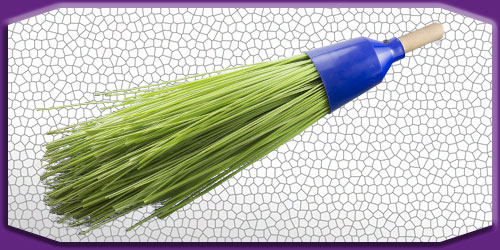
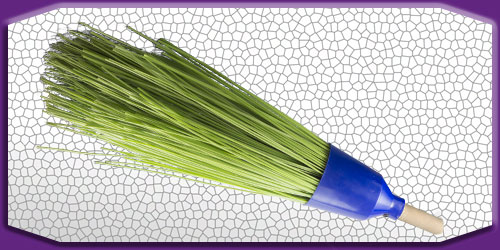
CR: Modified photoes for brushes and for main page. Modifed top menu laout

diff --git a/css/site.less b/css/site.less
@@ -102,18 +102,47 @@ header {
 			margin-right: 15px;
 			margin-bottom: 5px;
 
-			@media (min-width: @screen-sm-min) {
-				display: inline-block;
-			}
-
 			> a {
-				color: @text-contacts-decoration-color;
-				text-transform: uppercase;
+				display: block;
 				text-decoration: none;
+				font-size: 1.1em;
+
+				span {
+					color: @text-contacts-decoration-color;
+					display: inline-block;
+				}
+
+				.note {
+					margin-top: 5px;
+					color: desaturate(darken(@text-contacts-decoration-color, 5%), 85%);
+					font-size: 0.75em;
+				}
 
 				&:hover {
-					color: @product-decoration-text-color-2;
+					text-decoration: none;
+
+					span {
+						color: @product-decoration-text-color-2;
+					}
+
+					.note {
+						color: desaturate(darken(@product-decoration-text-color-2, 5%), 85%);
+					}
 				}
+
+				@media (min-width: @screen-sm-min) {
+					span {
+						display: block;
+					}
+
+					span.glyphicon {
+						margin-bottom: 10px;
+					}
+				}
+			}
+
+			@media (min-width: @screen-sm-min) {
+				display: inline-block;
 			}
 		}
 	}
@@ -411,7 +440,6 @@ main {
 	// This is added to avoid chrome text rendering bug;
 	z-index: 1;
 	// ------------------------------------------------
-	
 	margin-bottom: 5px;
 	border: 1px solid @product-decoration-color-3;
 

diff --git a/index.html b/index.html
@@ -45,10 +45,30 @@
 			<nav class="row">
 				<div class="col-xs-12 col-sm-12 col-md-12 col-lg-12">
 					<ul class="menu text-center">
-						<li><a href="/"><span class="glyphicon glyphicon-home"></span></a></li>
-						<li><a href="metla.html">МЕТЛА PRIMA</a></li>
-						<li><a href="shchetka-gerda.html">ЩЕТКА GERDA</a></li>
-						<li><a href="shchetka-gardena.html">ЩЕТКА GARDENA LUX</a></li>
+						<li>
+							<a href="/">
+								<span class="glyphicon glyphicon-home"></span>
+								<span class="note">ДОМАШНЯЯ</span>
+							</a>
+						</li>
+						<li>
+							<a href="metla.html">
+								<span>PRIMA</span>
+								<span class="note">МЕТЛА</span>
+							</a>
+						</li>
+						<li>
+							<a href="shchetka-gerda.html">
+								<span>GERDA</span>
+								<span class="note">ЩЕТКА</span>
+							</a>
+						</li>
+						<li>
+							<a href="shchetka-gardena.html">
+								<span>GARDENA LUX</span>
+								<span class="note">ПЛОСКАЯ МЕТЛА</span>
+							</a>
+						</li>
 					</ul>
 				</div>
 			</nav>

diff --git a/metla.html b/metla.html
@@ -45,10 +45,30 @@
 			<nav class="row">
 				<div class="col-xs-12 col-sm-12 col-md-12 col-lg-12">
 					<ul class="menu text-center">
-						<li><a href="/"><span class="glyphicon glyphicon-home"></span></a></li>
-						<li><a href="metla.html">МЕТЛА PRIMA</a></li>
-						<li><a href="shchetka-gerda.html">ЩЕТКА GERDA</a></li>
-						<li><a href="shchetka-gardena.html">ЩЕТКА GARDENA LUX</a></li>
+						<li>
+							<a href="/">
+								<span class="glyphicon glyphicon-home"></span>
+								<span class="note">ДОМАШНЯЯ</span>
+							</a>
+						</li>
+						<li>
+							<a href="metla.html">
+								<span>PRIMA</span>
+								<span class="note">МЕТЛА</span>
+							</a>
+						</li>
+						<li>
+							<a href="shchetka-gerda.html">
+								<span>GERDA</span>
+								<span class="note">ЩЕТКА</span>
+							</a>
+						</li>
+						<li>
+							<a href="shchetka-gardena.html">
+								<span>GARDENA LUX</span>
+								<span class="note">ПЛОСКАЯ МЕТЛА</span>
+							</a>
+						</li>
 					</ul>
 				</div>
 			</nav>

diff --git a/shchetka-gardena.html b/shchetka-gardena.html
@@ -45,10 +45,30 @@
 			<nav class="row">
 				<div class="col-xs-12 col-sm-12 col-md-12 col-lg-12">
 					<ul class="menu text-center">
-						<li><a href="/"><span class="glyphicon glyphicon-home"></span></a></li>
-						<li><a href="metla.html">МЕТЛА PRIMA</a></li>
-						<li><a href="shchetka-gerda.html">ЩЕТКА GERDA</a></li>
-						<li><a href="shchetka-gardena.html">ЩЕТКА GARDENA LUX</a></li>
+						<li>
+							<a href="/">
+								<span class="glyphicon glyphicon-home"></span>
+								<span class="note">ДОМАШНЯЯ</span>
+							</a>
+						</li>
+						<li>
+							<a href="metla.html">
+								<span>PRIMA</span>
+								<span class="note">МЕТЛА</span>
+							</a>
+						</li>
+						<li>
+							<a href="shchetka-gerda.html">
+								<span>GERDA</span>
+								<span class="note">ЩЕТКА</span>
+							</a>
+						</li>
+						<li>
+							<a href="shchetka-gardena.html">
+								<span>GARDENA LUX</span>
+								<span class="note">ПЛОСКАЯ МЕТЛА</span>
+							</a>
+						</li>
 					</ul>
 				</div>
 			</nav>

diff --git a/shchetka-gerda.html b/shchetka-gerda.html
@@ -45,10 +45,30 @@
 			<nav class="row">
 				<div class="col-xs-12 col-sm-12 col-md-12 col-lg-12">
 					<ul class="menu text-center">
-						<li><a href="/"><span class="glyphicon glyphicon-home"></span></a></li>
-						<li><a href="metla.html">МЕТЛА PRIMA</a></li>
-						<li><a href="shchetka-gerda.html">ЩЕТКА GERDA</a></li>
-						<li><a href="shchetka-gardena.html">ЩЕТКА GARDENA LUX</a></li>
+						<li>
+							<a href="/">
+								<span class="glyphicon glyphicon-home"></span>
+								<span class="note">ДОМАШНЯЯ</span>
+							</a>
+						</li>
+						<li>
+							<a href="metla.html">
+								<span>PRIMA</span>
+								<span class="note">МЕТЛА</span>
+							</a>
+						</li>
+						<li>
+							<a href="shchetka-gerda.html">
+								<span>GERDA</span>
+								<span class="note">ЩЕТКА</span>
+							</a>
+						</li>
+						<li>
+							<a href="shchetka-gardena.html">
+								<span>GARDENA LUX</span>
+								<span class="note">ПЛОСКАЯ МЕТЛА</span>
+							</a>
+						</li>
 					</ul>
 				</div>
 			</nav>

diff --git a/css/site.css b/css/site.css
@@ -63,18 +63,41 @@ header .menu > li {
   margin-right: 15px;
   margin-bottom: 5px;
 }
+header .menu > li > a {
+  display: block;
+  text-decoration: none;
+  font-size: 1.1em;
+}
+header .menu > li > a span {
+  color: #B6F63E;
+  display: inline-block;
+}
+header .menu > li > a .note {
+  margin-top: 5px;
+  color: #8f9486;
+  font-size: 0.75em;
+}
+header .menu > li > a:hover {
+  text-decoration: none;
+}
+header .menu > li > a:hover span {
+  color: #E768AD;
+}
+header .menu > li > a:hover .note {
+  color: #9b9b9b;
+}
+@media (min-width: 768px) {
+  header .menu > li > a span {
+    display: block;
+  }
+  header .menu > li > a span.glyphicon {
+    margin-bottom: 10px;
+  }
+}
 @media (min-width: 768px) {
   header .menu > li {
     display: inline-block;
   }
-}
-header .menu > li > a {
-  color: #B6F63E;
-  text-transform: uppercase;
-  text-decoration: none;
-}
-header .menu > li > a:hover {
-  color: #E768AD;
 }
 footer {
   margin-top: 2em;
